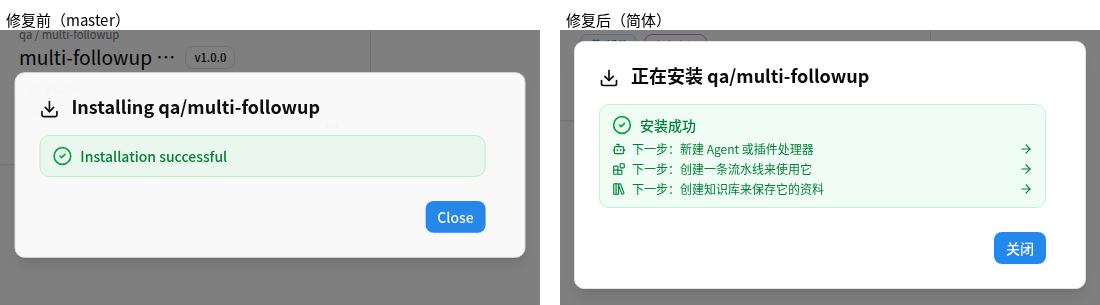
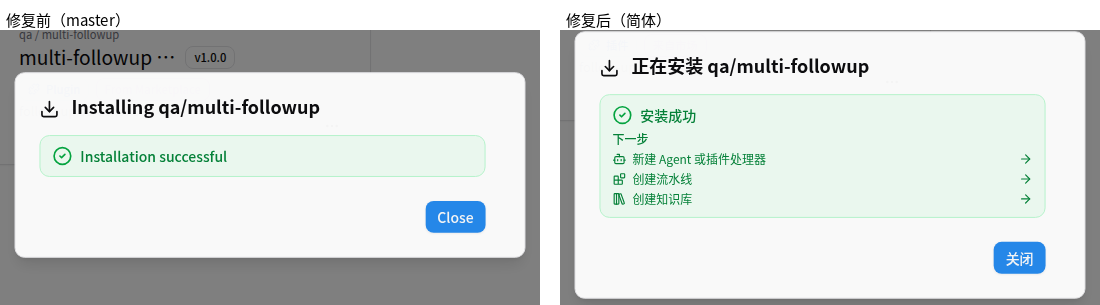
refactor(web): shorten the follow-up copy behind one heading

Changed region(s): [[0.5255, 0.177, 0.9582, 0.9148], [0.5255, 0.9443, 0.9891, 1.0], [0.5255, 0.0885, 0.9891, 0.1475]]

diff --git a/web/tests/e2e/plugin-install-followup-shots.spec.ts b/web/tests/e2e/plugin-install-followup-shots.spec.ts
@@ -146,10 +146,10 @@ test('multi-component install shows one link per distinct next step', async ({
   const dialog = await shoot(page, 'multi');
 
   await expect(
-    dialog.getByRole('link', { name: /create an Agent/i }),
+    dialog.getByRole('link', { name: /Create an Agent/i }),
   ).toBeVisible();
   await expect(
-    dialog.getByRole('link', { name: /create a pipeline/i }),
+    dialog.getByRole('link', { name: /Create a pipeline/i }),
   ).toHaveCount(1);
   await expect(
     dialog.getByRole('link', { name: /knowledge base/i }),
@@ -159,7 +159,9 @@ test('multi-component install shows one link per distinct next step', async ({
 test('parser-only install keeps the banner a single line', async ({ page }) => {
   await installLangBotApiMocks(page, { authenticated: true });
   const dialog = await shoot(page, 'parser');
-  await expect(dialog.getByRole('link', { name: /Next:/i })).toHaveCount(0);
+  await expect(dialog.getByRole('group', { name: /Next steps/i })).toHaveCount(
+    0,
+  );
 });
 
 test('pending permission review wins over the follow-up', async ({ page }) => {
@@ -168,7 +170,9 @@ test('pending permission review wins over the follow-up', async ({ page }) => {
   await expect(
     dialog.getByRole('link', { name: /Review permissions/i }),
   ).toBeVisible();
-  await expect(dialog.getByRole('link', { name: /Next:/i })).toHaveCount(0);
+  await expect(dialog.getByRole('group', { name: /Next steps/i })).toHaveCount(
+    0,
+  );
 });
 
 /**
@@ -179,14 +183,8 @@ test('pending permission review wins over the follow-up', async ({ page }) => {
  */
 test.describe('chinese', () => {
   for (const [locale, expected] of [
-    [
-      'zh-Hans',
-      ['下一步：新建 Agent 或插件处理器', '下一步：创建一条流水线来使用它'],
-    ],
-    [
-      'zh-Hant',
-      ['下一步：建立 Agent 或插件處理器', '下一步：建立一條流水線來使用它'],
-    ],
+    ['zh-Hans', ['新建 Agent 或插件处理器', '创建流水线']],
+    ['zh-Hant', ['建立 Agent 或插件處理器', '建立流水線']],
   ] as const) {
     test(`${locale} follow-up copy renders`, async ({ page }) => {
       await installLangBotApiMocks(page, {

diff --git a/web/src/i18n/locales/th-TH.ts b/web/src/i18n/locales/th-TH.ts
@@ -2105,9 +2105,10 @@ const thTH = {
       installCompleteMCP: 'ติดตั้งเซิร์ฟเวอร์ MCP สำเร็จ',
       installCompleteSkill: 'ติดตั้งสกิลสำเร็จ',
       followUp: {
-        agents: 'ถัดไป: สร้าง Agent หรือตัวประมวลผลปลั๊กอิน',
-        pipelines: 'ถัดไป: สร้างไปป์ไลน์เพื่อใช้งานมัน',
-        knowledge: 'ถัดไป: สร้างฐานความรู้สำหรับเก็บข้อมูลของมัน',
+        nextSteps: 'ขั้นตอนถัดไป',
+        agents: 'สร้าง Agent หรือตัวประมวลผลปลั๊กอิน',
+        pipelines: 'สร้างไปป์ไลน์',
+        knowledge: 'สร้างฐานความรู้',
       },
       dismiss: 'ปิด',
       background: 'ทำงานเบื้องหลัง',

diff --git a/web/src/i18n/locales/ru-RU.ts b/web/src/i18n/locales/ru-RU.ts
@@ -2173,9 +2173,10 @@ const ruRU = {
       installCompleteMCP: 'Сервер MCP успешно установлен',
       installCompleteSkill: 'Навык успешно установлен',
       followUp: {
-        agents: 'Далее: создайте Agent или обработчик плагина',
-        pipelines: 'Далее: создайте конвейер, чтобы его использовать',
-        knowledge: 'Далее: создайте базу знаний для его данных',
+        nextSteps: 'Дальнейшие шаги',
+        agents: 'Создайте Agent или обработчик плагина',
+        pipelines: 'Создайте конвейер',
+        knowledge: 'Создайте базу знаний',
       },
       dismiss: 'Закрыть',
       background: 'В фоновом режиме',

diff --git a/web/src/i18n/locales/ja-JP.ts b/web/src/i18n/locales/ja-JP.ts
@@ -2162,9 +2162,10 @@ const jaJP = {
       installCompleteMCP: 'MCP サーバーをインストールしました',
       installCompleteSkill: 'スキルをインストールしました',
       followUp: {
-        agents: '次へ：Agent またはプラグインプロセッサを作成',
-        pipelines: '次へ：これを使うパイプラインを作成',
-        knowledge: '次へ：これの資料を入れるナレッジベースを作成',
+        nextSteps: '次のステップ',
+        agents: 'Agent またはプラグインプロセッサを作成',
+        pipelines: 'パイプラインを作成',
+        knowledge: 'ナレッジベースを作成',
       },
       dismiss: '閉じる',
       background: 'バックグラウンドで実行',

diff --git a/web/src/i18n/locales/vi-VN.ts b/web/src/i18n/locales/vi-VN.ts
@@ -2140,9 +2140,10 @@ const viVN = {
       installCompleteMCP: 'Đã cài đặt máy chủ MCP thành công',
       installCompleteSkill: 'Đã cài đặt kỹ năng thành công',
       followUp: {
-        agents: 'Tiếp theo: tạo Agent hoặc bộ xử lý plugin',
-        pipelines: 'Tiếp theo: tạo pipeline để dùng nó',
-        knowledge: 'Tiếp theo: tạo cơ sở tri thức để chứa dữ liệu của nó',
+        nextSteps: 'Bước tiếp theo',
+        agents: 'Tạo Agent hoặc bộ xử lý plugin',
+        pipelines: 'Tạo pipeline',
+        knowledge: 'Tạo cơ sở tri thức',
       },
       dismiss: 'Bỏ qua',
       background: 'Chạy nền',

diff --git a/web/src/i18n/locales/es-ES.ts b/web/src/i18n/locales/es-ES.ts
@@ -2183,9 +2183,10 @@ const esES = {
       installCompleteMCP: 'Servidor MCP instalado correctamente',
       installCompleteSkill: 'Skill instalada correctamente',
       followUp: {
-        agents: 'Siguiente: crea un Agent o un procesador de plugin',
-        pipelines: 'Siguiente: crea una canalización para usarlo',
-        knowledge: 'Siguiente: crea una base de conocimiento para sus datos',
+        nextSteps: 'Próximos pasos',
+        agents: 'Crea un Agent o un procesador de plugin',
+        pipelines: 'Crea una canalización',
+        knowledge: 'Crea una base de conocimiento',
       },
       dismiss: 'Descartar',
       background: 'Ejecutar en segundo plano',

diff --git a/web/src/i18n/locales/en-US.ts b/web/src/i18n/locales/en-US.ts
@@ -2150,9 +2150,10 @@ const enUS = {
       installCompleteMCP: 'MCP Server installed successfully',
       installCompleteSkill: 'Skill installed successfully',
       followUp: {
-        agents: 'Next: create an Agent or plugin processor',
-        pipelines: 'Next: create a pipeline to use it',
-        knowledge: 'Next: create a knowledge base for it',
+        nextSteps: 'Next steps',
+        agents: 'Create an Agent or plugin processor',
+        pipelines: 'Create a pipeline',
+        knowledge: 'Create a knowledge base',
       },
       dismiss: 'Dismiss',
       background: 'Run in Background',

diff --git a/web/src/i18n/locales/zh-Hans.ts b/web/src/i18n/locales/zh-Hans.ts
@@ -2020,9 +2020,10 @@ const zhHans = {
       installCompleteMCP: 'MCP 服务器安装成功',
       installCompleteSkill: '技能安装成功',
       followUp: {
-        agents: '下一步：新建 Agent 或插件处理器',
-        pipelines: '下一步：创建一条流水线来使用它',
-        knowledge: '下一步：创建知识库来保存它的资料',
+        nextSteps: '下一步',
+        agents: '新建 Agent 或插件处理器',
+        pipelines: '创建流水线',
+        knowledge: '创建知识库',
       },
       dismiss: '关闭',
       background: '后台运行',

diff --git a/web/src/i18n/locales/zh-Hant.ts b/web/src/i18n/locales/zh-Hant.ts
@@ -2017,9 +2017,10 @@ const zhHant = {
       installCompleteMCP: 'MCP 伺服器安裝成功',
       installCompleteSkill: '技能安裝成功',
       followUp: {
-        agents: '下一步：建立 Agent 或插件處理器',
-        pipelines: '下一步：建立一條流水線來使用它',
-        knowledge: '下一步：建立知識庫來存放它的資料',
+        nextSteps: '下一步',
+        agents: '建立 Agent 或插件處理器',
+        pipelines: '建立流水線',
+        knowledge: '建立知識庫',
       },
       dismiss: '關閉',
       background: '背景執行',

diff --git a/web/src/app/home/plugins/components/plugin-install-task/PluginInstallFollowUp.tsx b/web/src/app/home/plugins/components/plugin-install-task/PluginInstallFollowUp.tsx
@@ -44,7 +44,14 @@ export default function PluginInstallFollowUp({
   if (kinds.length === 0) return null;
 
   return (
-    <div className="mt-1.5 space-y-1">
+    <div
+      className="mt-1.5 space-y-1"
+      role="group"
+      aria-label={t('plugins.installProgress.followUp.nextSteps')}
+    >
+      <p className="text-xs font-medium text-green-700 dark:text-green-300">
+        {t('plugins.installProgress.followUp.nextSteps')}
+      </p>
       {kinds.map((kind) => {
         const { to, icon: Icon, i18nKey } = FOLLOW_UP_PRESENTATION[kind];
         return (

diff --git a/dev-docs/screenshots/2804/README.md b/dev-docs/screenshots/2804/README.md
@@ -8,7 +8,7 @@ Captured against a real Vite dev server with Playwright, API mocked (no backend)
 | `compare-multi.png` | A plugin with Runner + Tool + Command + KnowledgeEngine shows one link per distinct step, and the pipeline step exactly once — the "no duplicate of the same kind" criterion. Before: nothing. |
 | `compare-parser.png` | A Parser-only plugin adds no follow-up; the banner stays one line in both. |
 | `compare-review.png` | With a permission review pending, the Review button keeps the banner and no follow-up competes with it. |
-| `compare-multi-zh-Hans.png` / `compare-multi-zh-Hant.png` | The Chinese renderings. Copy is native, not translated English: no repeated "this plugin" on every line, and the traditional locale uses the same word for a plugin as the rest of its file. |
+| `compare-multi-zh-Hans.png` / `compare-multi-zh-Hant.png` | The Chinese renderings. Copy is native, not translated English, and the traditional locale uses the same word for a plugin as the rest of its file. |
 
 Reproduce:
 
@@ -26,8 +26,9 @@ component without the test failing. On `master` the multi-component case fails
 All eight locales carry the keys (`node web/scripts/check-i18n.mjs` passes). Copy
 is written per language rather than mirroring the English sentence:
 
-- the English source repeated "for this plugin" on all three lines; each locale
-  now names the plugin once and refers back with a pronoun;
+- the English source repeated "for this plugin" on all three lines, then a
+  "Next:" prefix on each; the prefix is now one `nextSteps` heading and every
+  line is just verb + noun, so the five locales that had a colon lose it too;
 - `zh-Hant` mixed 外掛 with 插件 in the same block (`installComplete` said 外掛
   while `updateComplete` next to it said 插件); both now say 插件, matching the
   rest of that file;
